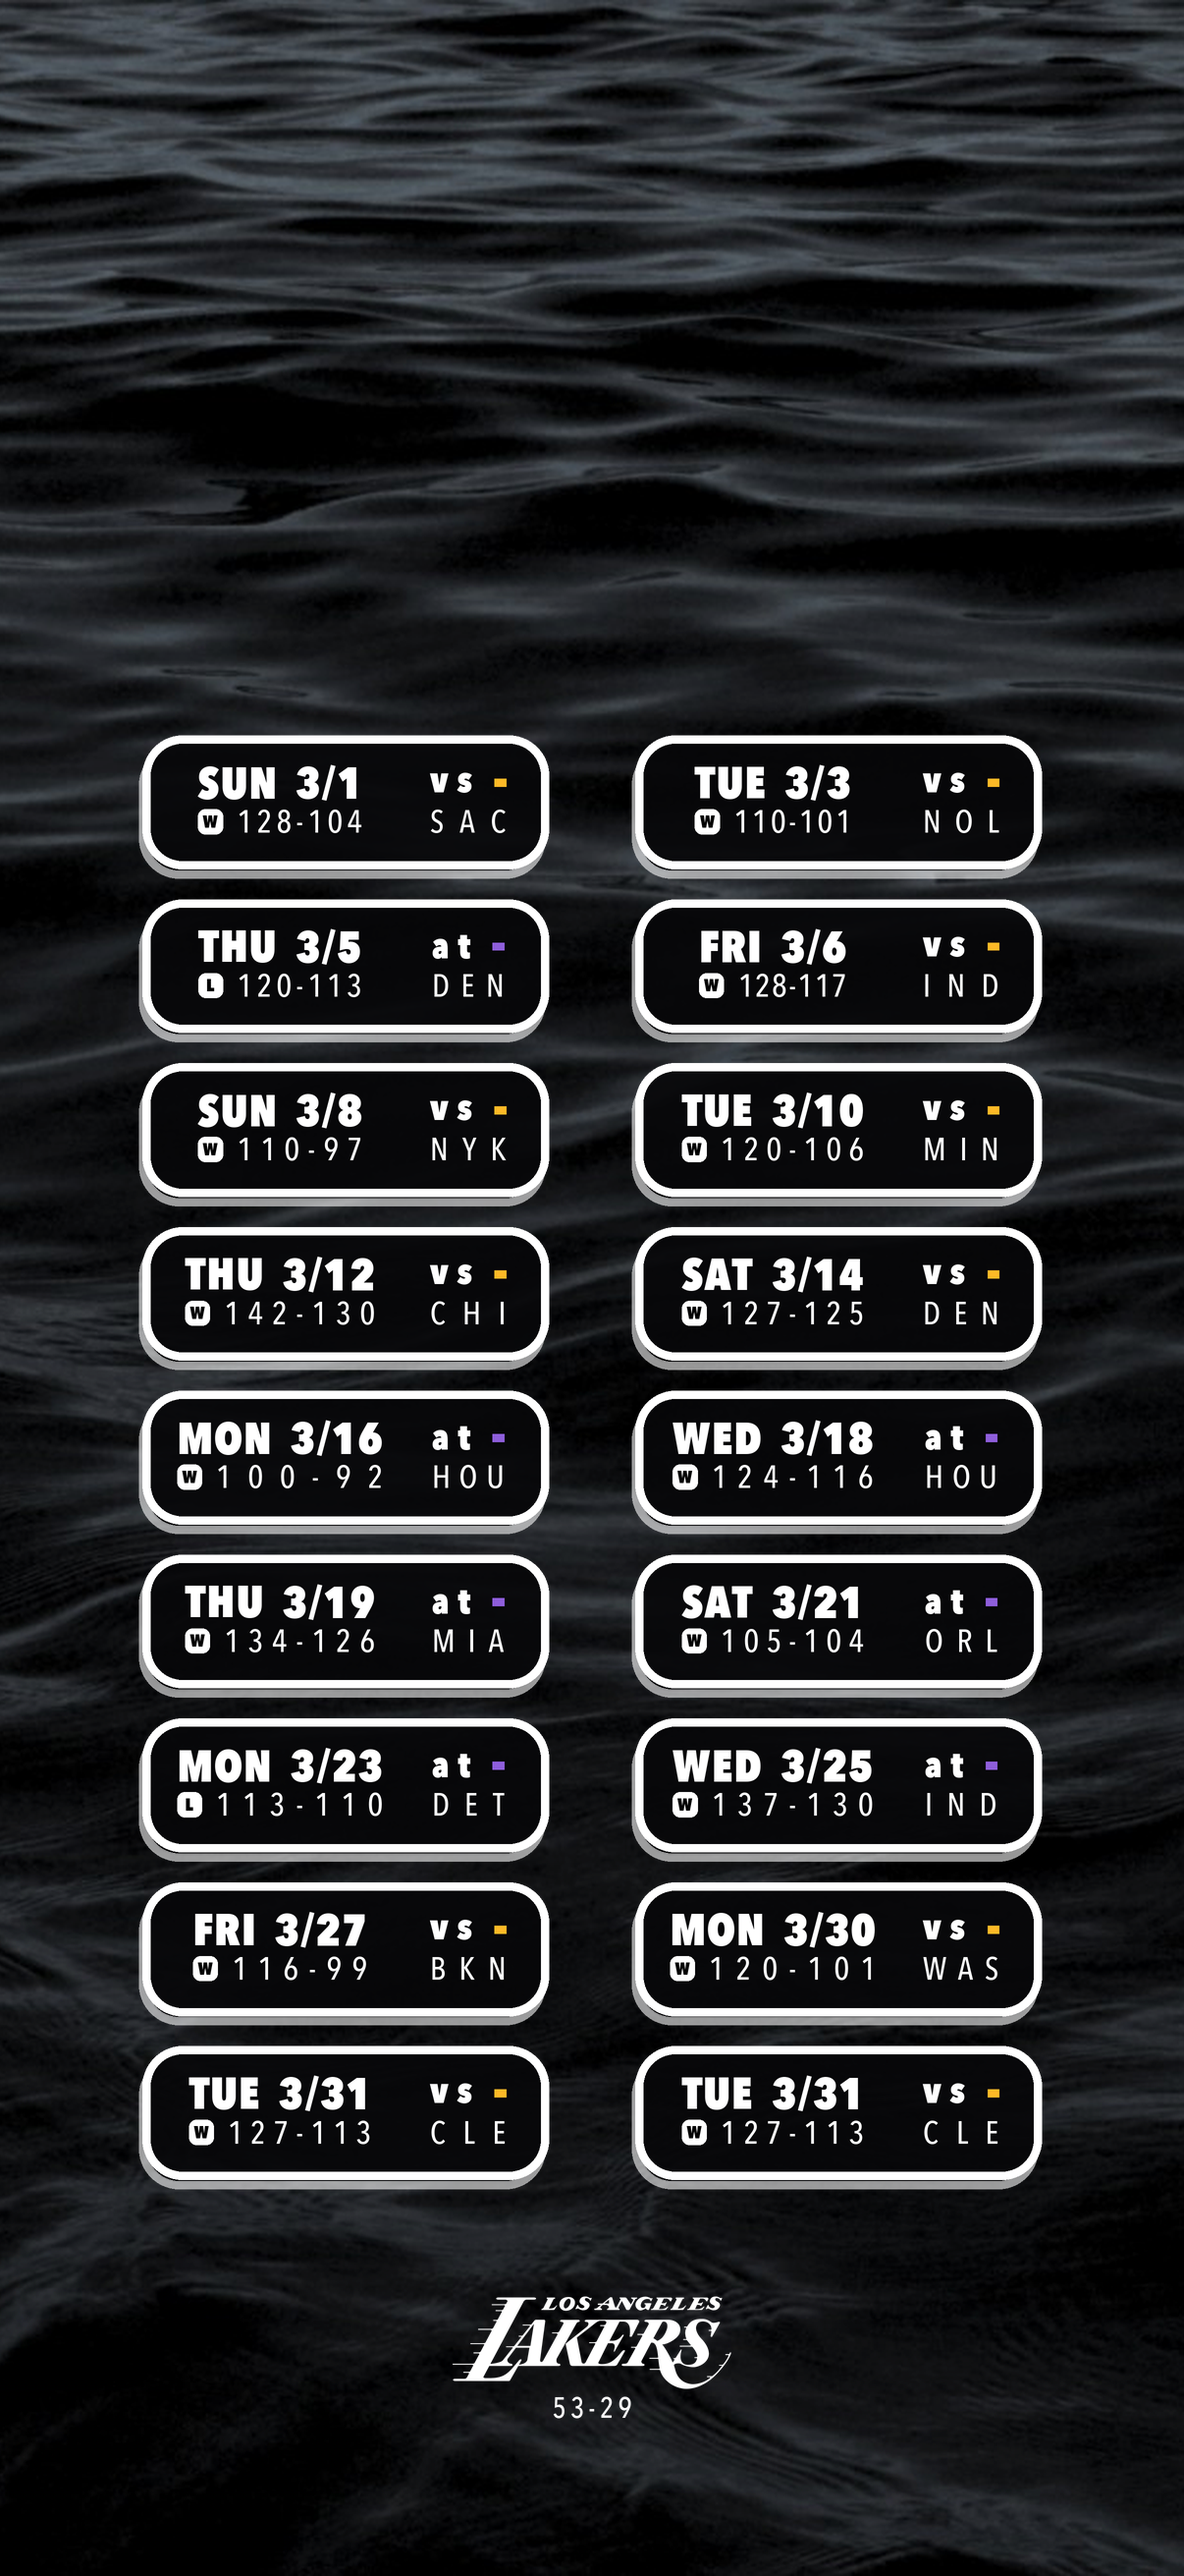
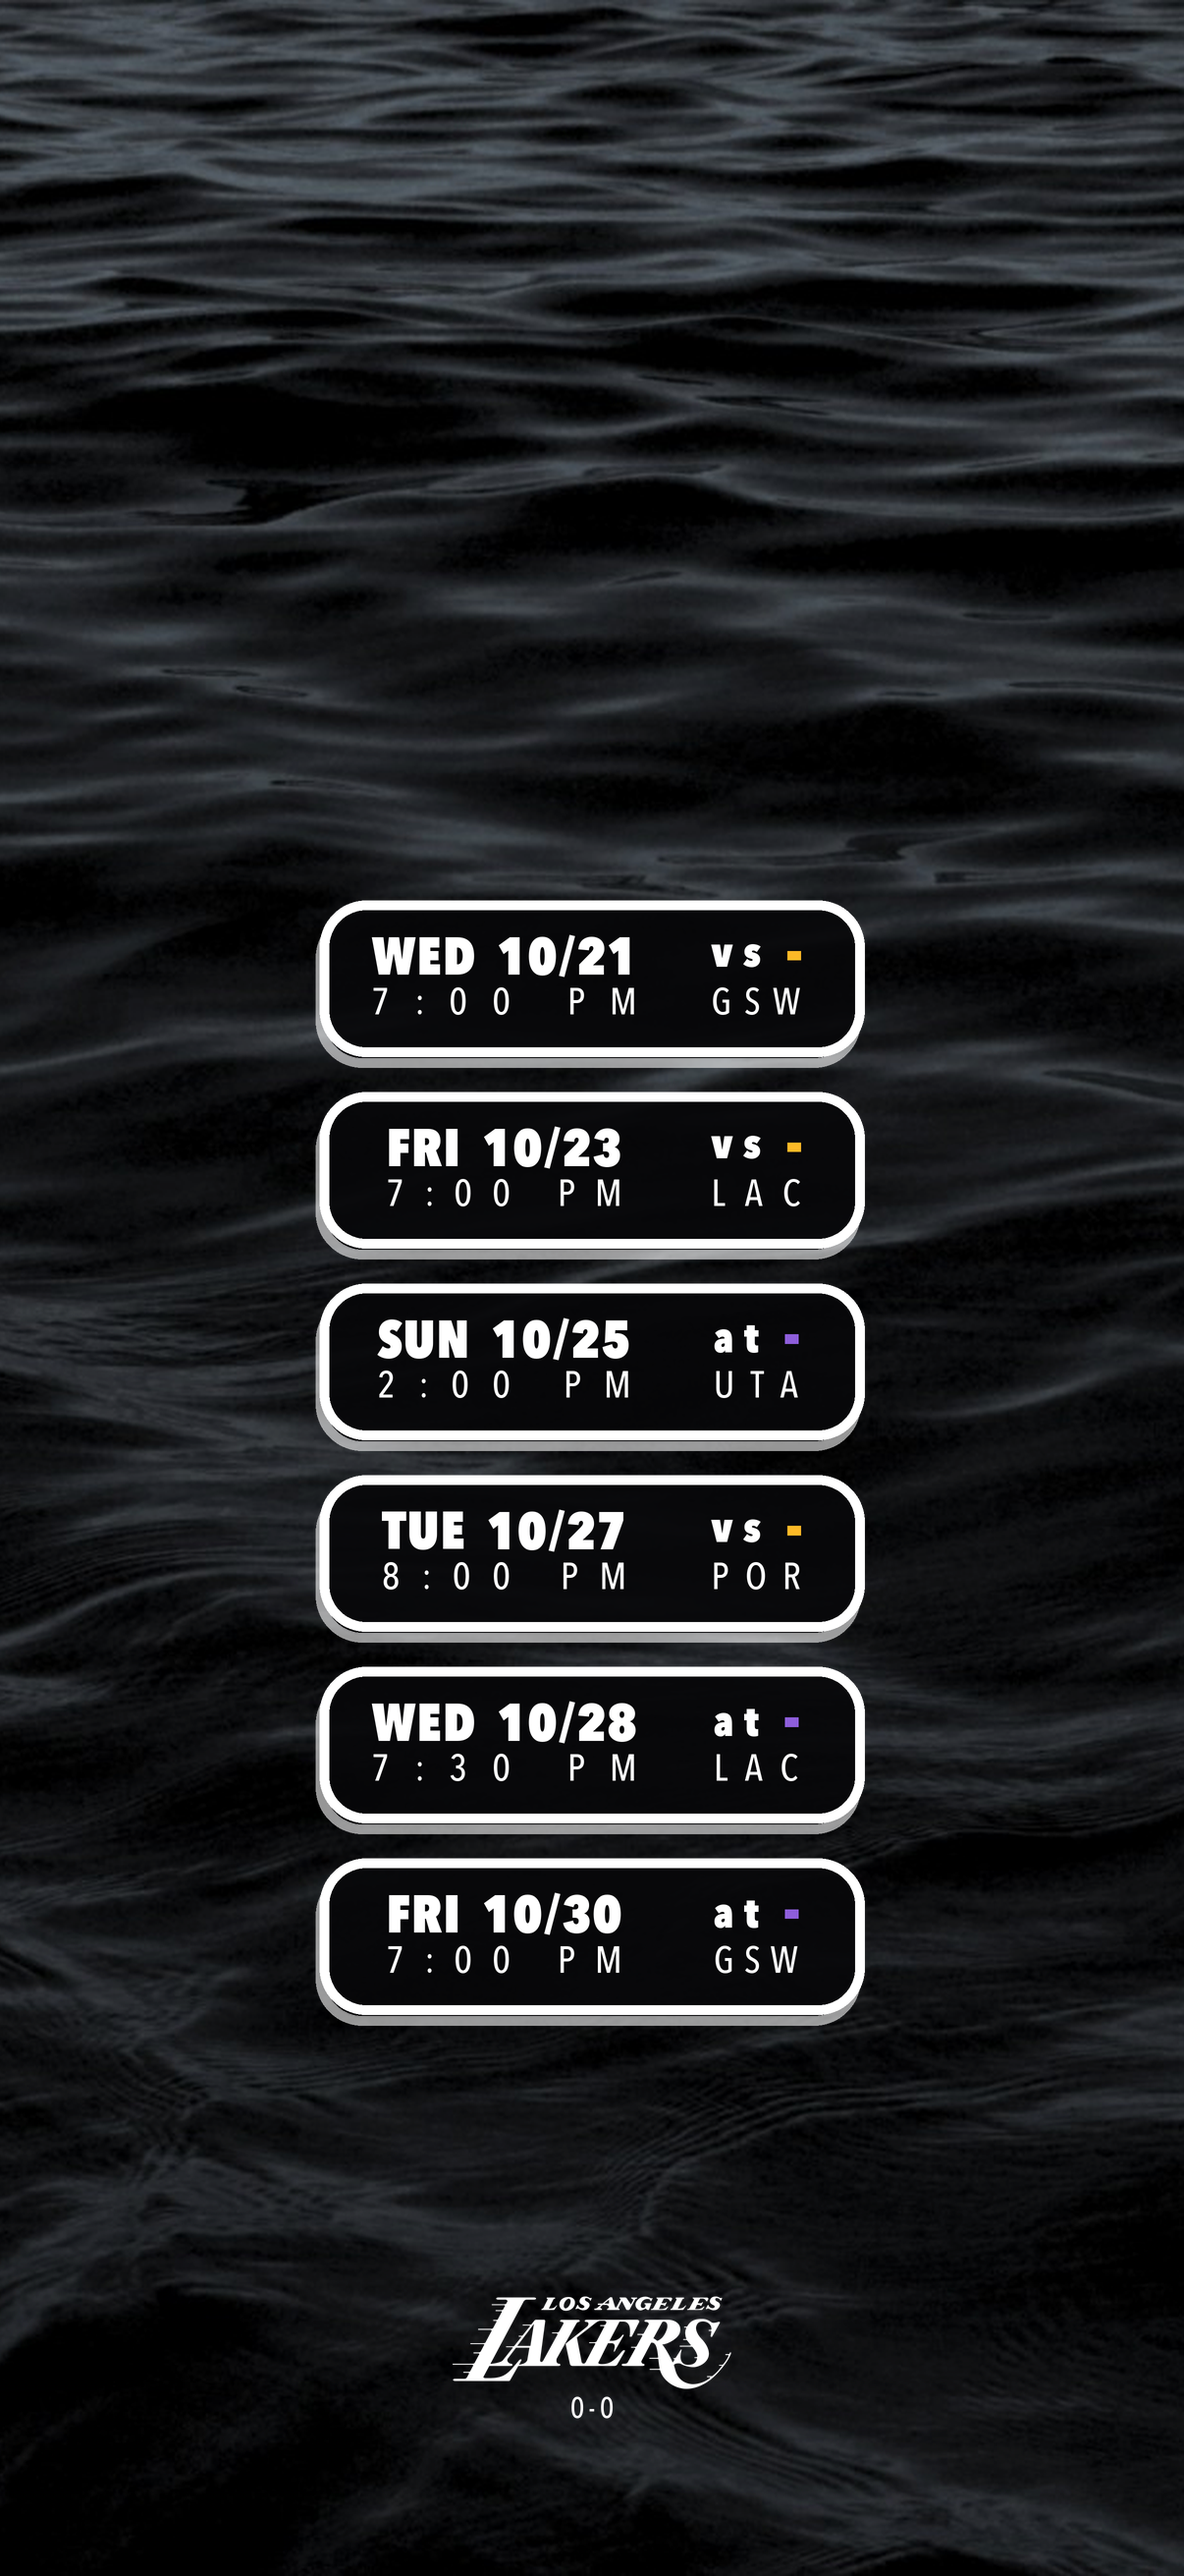
Default light months to a single centred column
Months with 8 or fewer games now render one game per row. Two short
columns left a lot of dead width and floated in the middle of the screen;
a single column fills it and matches the original reference design.

Changed region(s): [[0.092, 0.278, 0.8897, 0.865]]

diff --git a/serve.py b/serve.py
@@ -38,7 +38,8 @@ def render_png(device: str, month, tz: str) -> bytes:
                  background=OPTS.bg, background_align=OPTS.bg_align,
                  show_scores=not OPTS.no_scores, scrim=OPTS.scrim,
                  wordmark_path=OPTS.wordmark, show_month=OPTS.show_month,
-                 record_includes_postseason=OPTS.playoff_record)
+                 record_includes_postseason=OPTS.playoff_record,
+                 single_column_max=OPTS.single_column_max)
     img, month_key, shown, record = build(cfg, ttl=OPTS.refresh)
     buf = io.BytesIO()
     img.save(buf, "PNG", compress_level=6)
@@ -117,6 +118,7 @@ def main() -> int:
     p.add_argument("--wordmark")
     p.add_argument("--show-month", action="store_true")
     p.add_argument("--playoff-record", action="store_true")
+    p.add_argument("--single-column-max", type=int, default=8)
     p.add_argument("--refresh", type=int, default=900,
                    help="seconds before a cached render is rebuilt")
     p.parse_args(namespace=OPTS)

diff --git a/generate.py b/generate.py
@@ -32,7 +32,7 @@ def parse_args(argv=None) -> argparse.Namespace:
     p.add_argument("--wordmark", help="PNG of your own wordmark instead of the ESPN-derived one")
     p.add_argument("--logo-width", type=float, default=None,
                    help="wordmark width as a fraction of screen width (default 0.235)")
-    p.add_argument("--single-column-max", type=int, default=0,
+    p.add_argument("--single-column-max", type=int, default=8,
                    help="months with at most this many games use one centred column")
     p.add_argument("--show-month", action="store_true", help="print the month name above the wordmark")
     p.add_argument("--playoff-record", action="store_true",

diff --git a/lakerscreen/config.py b/lakerscreen/config.py
@@ -116,7 +116,7 @@ class Config:
     show_scores: bool = True
     record_includes_postseason: bool = False
     pad_odd_months: bool = True         # repeat the last game so rows stay paired
-    single_column_max: int = 0          # <= this many games render in one centred column
+    single_column_max: int = 8          # <= this many games render in one centred column
     scrim: float = 0.15                 # darkening behind the grid, 0..1
     month: Optional[str] = None         # "YYYY-MM" override; default = today
     show_month: bool = False            # print the month name above the wordmark

diff --git a/README.md b/README.md
@@ -150,6 +150,7 @@ will ask for confirmation each time.
 | Purple swatch | away game (`at`) |
 | Record | regular-season W–L for the displayed season |
 | Month | dates in the current calendar month; rolls over on the 1st |
+| Layout | one centred column at 8 games or fewer, two columns above that |
 
 Playoff games appear automatically once ESPN publishes them, but are excluded
 from the record (that is the usual convention). Pass `--playoff-record` to
@@ -167,6 +168,7 @@ include them.
 --scrim 0..1           darkening behind the grid for legibility (default 0.34)
 --no-scores            bare W/L with no final score
 --playoff-record       count playoff games in the record
+--single-column-max N  one centred column at N games or fewer (default 8)
 --show-month           print the month name above the wordmark
 --wordmark PATH        use your own wordmark PNG
 --logo-width 0.235     wordmark size as a fraction of screen width
